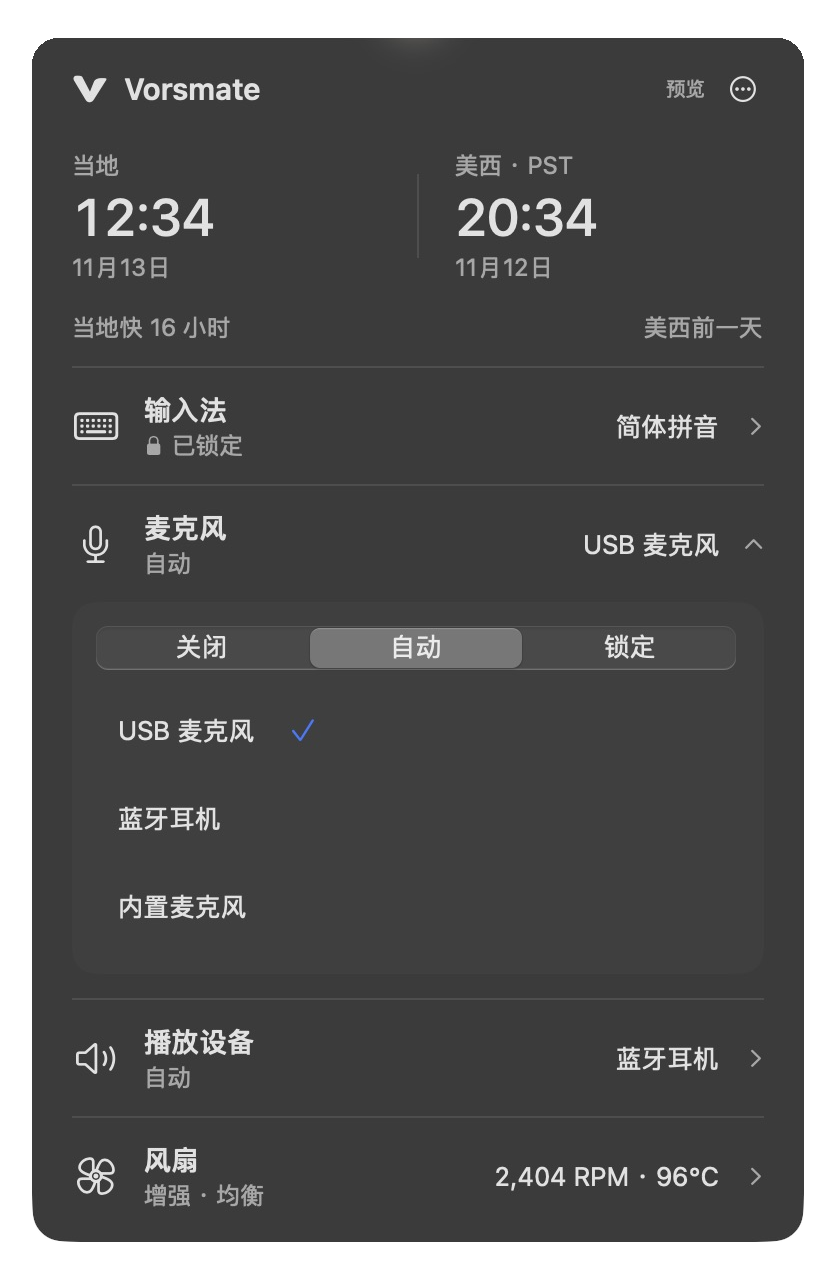
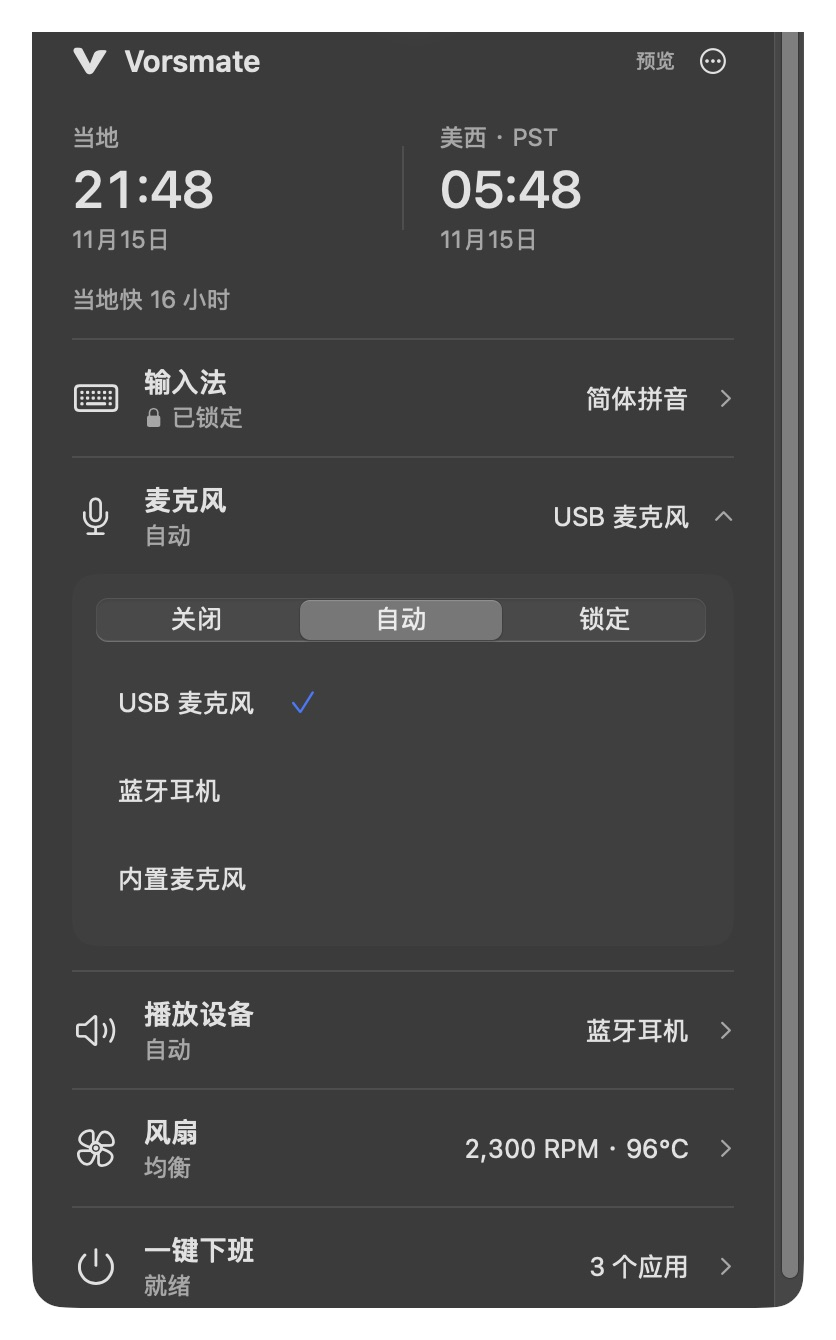
chore(release): prepare v0.3.1

diff --git a/docs/verification.md b/docs/verification.md
@@ -2,7 +2,7 @@
 
 本地测试、真实硬件观察和公开二进制分发分别验收；通过其中一项不代表其他项已经完成。
 
-应用更新开发版另通过 107 项核心 / 控制器及 12 项界面测试。隔离应用验证了损坏签名被拒绝、有效载荷验签 / 解包 / 替换 / 重启及包外配置保留；新的紧凑交互窗口也完成隔离升级到更高版本。真实应用配置与风扇助手进程未被隔离测试改动。此验证不等于从 GitHub 发布版直接升级的完整验收；公开 v0.2.0 尚无更新器及 appcast，下一次发布需同步三份资产。协议与发布步骤见[应用更新](updates.md)。
+应用更新开发版另通过 107 项核心 / 控制器及 12 项界面测试。隔离应用验证了损坏签名被拒绝、有效载荷验签 / 解包 / 替换 / 重启及包外配置保留；新的紧凑交互窗口也完成隔离升级到更高版本。真实应用配置与风扇助手进程未被隔离测试改动。此验证不等于从 GitHub 发布版直接升级的完整验收；v0.3.0 起公开安装包已包含更新器及 appcast，后续发布需继续同步三份资产。协议与发布步骤见[应用更新](updates.md)。
 
 ## 六模块与一键下班
 
@@ -17,6 +17,8 @@
 原生隔离预览观察了第五个展开模块、跳过后的数量变化、Esc 取消、模块停用移除 / 重启用保持收起、时间模块移除后布局与完整“已完成模拟重启”反馈。本机安装后已实测启动自动读取 `settings.json` 中的增强 · 强冷档位并在持续升温确认后接管硬件（`hardwareMode = 1`）。没有关闭真实应用、关机或重启；整机重启、睡眠唤醒与系统关机权限执行仍待后续实机观察。
 
 ## 四项风扇选择
+
+v0.3.1 发布准备已通过完整格式检查、117 项核心 / 控制器测试及 24 项界面测试；三张 README 效果图重新取自当前原生隔离预览，展示六模块和四项风扇选择，使用通用演示设备。
 
 自动 / 均衡 / 增强 / 自定义改为一行直接选择。10 项风扇模型测试通过，覆盖旧配置往返、均衡与增强直接切换、旧自定义曲线保留，以及后台刷新不禁用控件的回归。原生隔离预览确认四项切换、摘要回显、自定义滑杆调节和切回自动收起参数；README 风扇截图使用该预览的演示数据。此次沿用现有散热算法与助手，不代表新增机型或完整冷热循环验收。
 

diff --git a/README.en.md b/README.en.md
@@ -24,7 +24,7 @@ Actual app screenshots using sample data. Click to switch; drag to reorder in th
 
 - **Input sources** — Switch quickly, lock a preferred input source, or drag to set priorities for automatic selection.
 - **Audio devices** — Reorder and lock microphone and playback devices independently. Fall back when a device disconnects and restore it when it returns. Supported wireless receivers become eligible only when a transmitter connects.
-- **Fan control** — Four direct choices: Automatic, Balanced, Enhanced, and Custom. Balanced and Enhanced smooth temperature changes and slow down gradually; Custom sets a fixed speed.
+- **Fan control** — Four direct choices: Automatic, Balanced, Enhanced, and Custom. Balanced and Enhanced smooth temperature changes and slow down gradually; Custom sets a fixed speed. Background readings refresh without interrupting the controls.
 - **Quick Shutdown** — Clean up apps before shutting down or restarting, with a cancellable five-second countdown and per-app exclusions.
 - **Modules** — Enable or disable all six modules independently; disabling stops their background work.
 - **Time comparison** — View local and US Pacific time side by side. Convert dates and times with daylight saving handled for both locations.
@@ -35,7 +35,7 @@ Built with SwiftUI and AppKit, with native Liquid Glass on macOS 26+. No account
 
 Requires **macOS 14 or later**. The universal app includes Apple Silicon and Intel architectures.
 
-1. Download `Vorsmate-0.3.0-universal.dmg` from [GitHub Releases](https://github.com/0xTotoroX/vorsmate/releases/tag/v0.3.0).
+1. Download `Vorsmate-0.3.1-universal.dmg` from [GitHub Releases](https://github.com/0xTotoroX/vorsmate/releases/tag/v0.3.1).
 2. Open the disk image and drag **Vorsmate** into **Applications**.
 3. Launch it from Applications and click the **V** icon in the menu bar.
 

diff --git a/docs/updates.md b/docs/updates.md
@@ -4,7 +4,7 @@
 
 发现新版后，Sparkle 负责下载、Ed25519 验证、解包、替换与重启；载荷在解包前验签。自定义交互层只显示同一紧凑窗口中的状态和操作，不替换框架的安装逻辑。用户确认安装和重启；下载前可取消，准备完成后可稍后安装。后台网络失败不弹窗；手动检查失败可见。没有 appcast 的旧发布只提供发布页入口，不假装可以应用内安装。
 
-配置位于应用包外的 Application Support，更新不改写、不删除该文件。应用正常退出仍归还本助手控制的风扇；启动后按既有约定使用系统自动模式。更新不注销或重建风扇服务，应用标识、助手标识、LaunchDaemon 描述与签名团队保持兼容。改变签名团队或助手协议需要独立迁移与实机验收，不能承诺无条件继承授权。不可写的安装目录可能需要系统安装授权，这与重新开启风扇助手不同。
+配置位于应用包外的 Application Support，更新不改写、不删除该文件。应用正常退出仍归还本助手控制的风扇；启动后在模块启用、助手已授权且无竞争工具时恢复保存的风扇方案；首次未设置时使用系统自动。更新不注销或重建风扇服务，应用标识、助手标识、LaunchDaemon 描述与签名团队保持兼容。改变签名团队或助手协议需要独立迁移与实机验收，不能承诺无条件继承授权。不可写的安装目录可能需要系统安装授权，这与重新开启风扇助手不同。
 
 ## 发布更新
 

diff --git a/README.md b/README.md
@@ -24,7 +24,7 @@
 
 - **输入法管理**：快速切换、锁定输入源，或拖动排序后按优先级自动选择。
 - **音频管理**：麦克风与播放设备分别排序、分别锁定。设备断开时回退，重连后恢复。支持的无线接收器在发射器连接后才参与选择。
-- **风扇控制**：自动、均衡、增强、自定义四项直接选择。均衡与增强配合温度平滑和缓降，自定义调节固定转速。
+- **风扇控制**：自动、均衡、增强、自定义四项直接选择。均衡与增强配合温度平滑和缓降，自定义调节固定转速；后台刷新读数不打断操作。
 - **一键下班**：清理应用后关机或重启，五秒内可取消；可跳过应用、选择强制退出和禁止下次恢复窗口。
 - **功能模块**：六个模块独立开关，关闭即停止相应后台工作。
 - **时间对照**：并排查看当地与美西时间，点击即可换算日期与时刻，自动处理两地夏令时。
@@ -35,7 +35,7 @@
 
 需要 **macOS 14 或更新版本**。安装包包含 Apple Silicon 与 Intel 两种架构；应用界面目前为简体中文。
 
-1. 在 [GitHub Releases](https://github.com/0xTotoroX/vorsmate/releases/tag/v0.3.0) 下载 `Vorsmate-0.3.0-universal.dmg`。
+1. 在 [GitHub Releases](https://github.com/0xTotoroX/vorsmate/releases/tag/v0.3.1) 下载 `Vorsmate-0.3.1-universal.dmg`。
 2. 打开磁盘镜像，将 **Vorsmate** 拖入 **Applications**。
 3. 从“应用程序”中启动，点击菜单栏的 **V** 图标。
 
